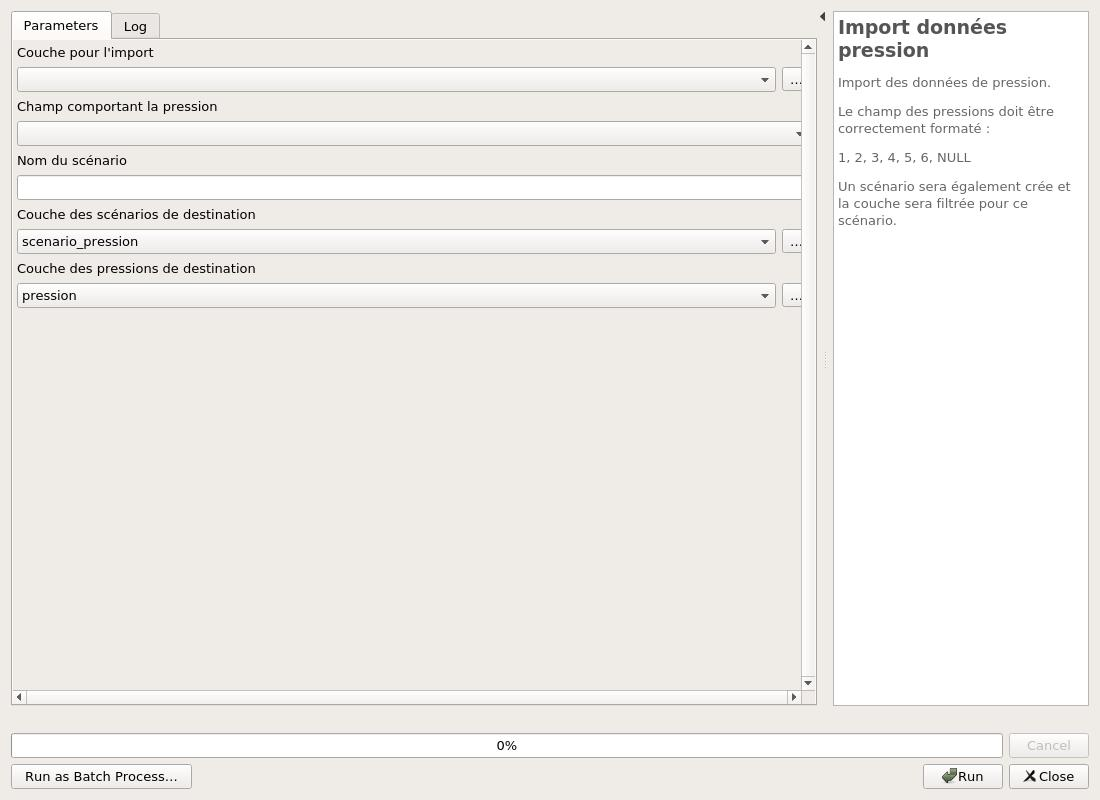
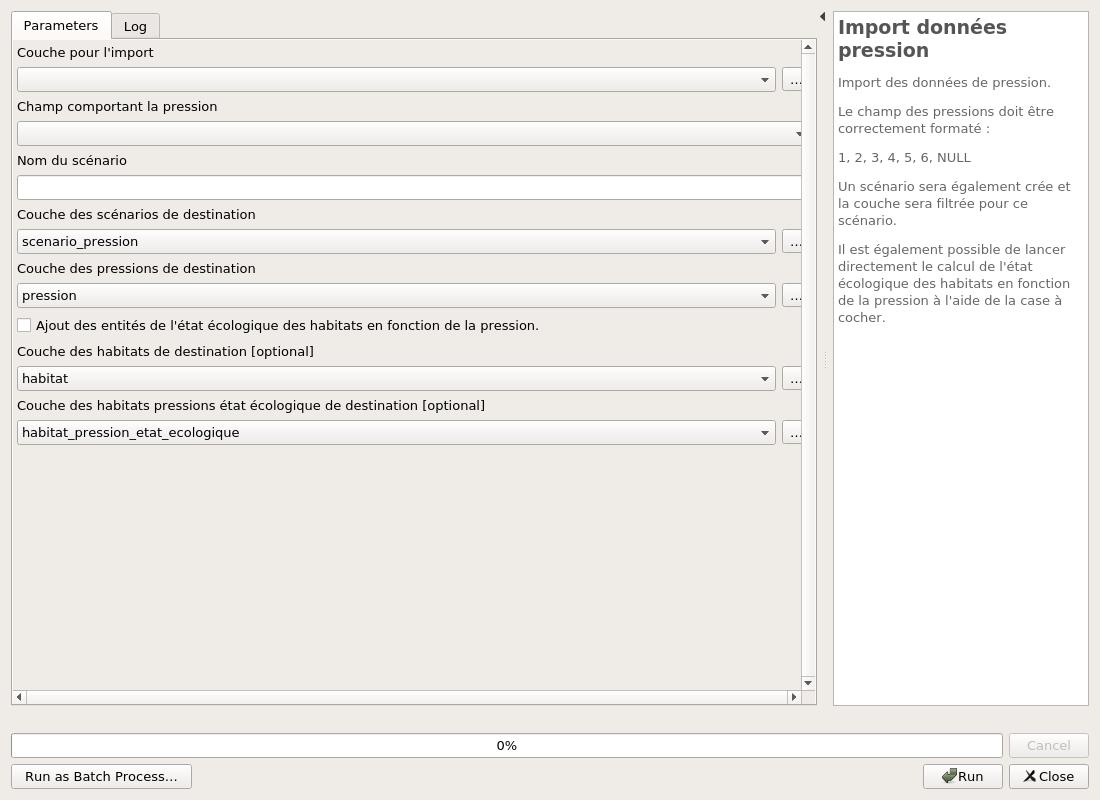
Docs - Update Processing documentation

Changed region(s): [[0.0, 0.4062, 0.4327, 0.5625], [0.7727, 0.3125, 0.9582, 0.4062], [0.4327, 0.4062, 0.4636, 0.4375]]

diff --git a/docs/processing/README.md b/docs/processing/README.md
@@ -66,7 +66,7 @@ Calcul des notes MERCI-Cor à partir des indicateurs MERCI-Cor
 Liste des notes :
 note_bsd = (("bsd_recouv_cor" + "bsd_p_acrop" + "bsd_vital_cor" + "bsd_comp_struc" + "bsd_taille_cor" + "bsd_dens_juv" + "bsd_f_sessile" + "bsd_recouv_ma") / 8.0) * (10.0 / 3.0)
 note_bsm = (("bsm_fragm_herb" + "bsm_recouv_her" + "bsm_haut_herb" + "bsm_dens_herb" + "bsm_div_herb" + "bsm_epibiose") / 6.0) * (10.0 / 3.0)
-note_ben = "note_bsd" * "perc_bsd" + "note_bsm" * "perc_bsm"
+note_ben = CASE WHEN "note_bsd" IS NULL THEN "note_bsm" WHEN "note_bsm" IS NULL THEN "note_bsd" ELSE "note_bsd" * "perc_bsd" + "note_bsm" * "perc_bsm" END
 note_man = (("man_fragm" + "man_recouv" + "man_diam_tronc" + "man_dens" + "man_diversit" + "man_vital") / 6.0) * (10.0 / 3.0)
 note_pmi = (("pmi_div_poi" + "pmi_predat_poi" + "pmi_scarib_poi" + "pmi_macro_inv") / 4) * (10 / 3)
 score_mercicor = CASE WHEN lower(to_string("station_man")) = 'true' THEN ("note_man" + "note_pmi") / 2 ELSE ("note_ben" + "note_pmi") / 2 END
@@ -101,6 +101,7 @@ perte_bsd = La somme de '("hab_note_bsd" - "note_bsd") * surface', filtré par s
 perte_bsm = La somme de '("hab_note_bsm" - "note_bsm") * surface', filtré par scénario
 perte_man = La somme de '("hab_note_man" - "note_man") * surface', filtré par scénario
 perte_pmi = La somme de '("hab_note_pmi" - "note_pmi") * surface', filtré par scénario
+perte_ben = La somme de '("hab_note_ben" - "note_ben") * surface', filtré par scénario
 perte_mercicor = La somme de '("hab_score_mercicor" - "score_mercicor") * surface', filtré par scénario
 
 
@@ -309,6 +310,7 @@ Import des données de pression.
 Le champ des pressions doit être correctement formaté : 
 1, 2, 3, 4, 5, 6, NULL
 Un scénario sera également crée et la couche sera filtrée pour ce scénario.
+Il est également possible de lancer directement le calcul de l'état écologique des habitats en fonction de la pression à l'aide de la case à cocher.
 
 ![algo_id](./mercicor-import_donnees_pression.jpg)
 
@@ -321,6 +323,9 @@ PRESSURE_FIELD|Champ comportant la pression|Field||✓|||
 SCENARIO_NAME|Nom du scénario|String|Le nom du scénario en cours pour cette couche des pressions.|✓|||
 SCENARIO_LAYER|Couche des scénarios de destination|VectorLayer|La couche de destination des scénarios doit être la couche qui est dans le geopackage.|✓||Default: scenario_pression <br> Type: TypeVector <br>|
 OUTPUT_LAYER|Couche des pressions de destination|VectorLayer||✓||Default: pression <br> Type: TypeVectorPolygon <br>|
+APPLY_CALCUL_HABITAT_PRESSION_ETAT_ECOLOGIQUE|Ajout des entités de l'état écologique des habitats en fonction de la pression.|Boolean||✓|||
+HABITAT_LAYER|Couche des habitats de destination|VectorLayer||||Default: habitat <br> Type: TypeVectorPolygon <br>|
+HABITAT_PRESSION_LAYER|Couche des habitats pressions état écologique de destination|VectorLayer||||Default: habitat_pression_etat_ecologique <br> Type: TypeVectorPolygon <br>|
 
 
 #### Outputs
